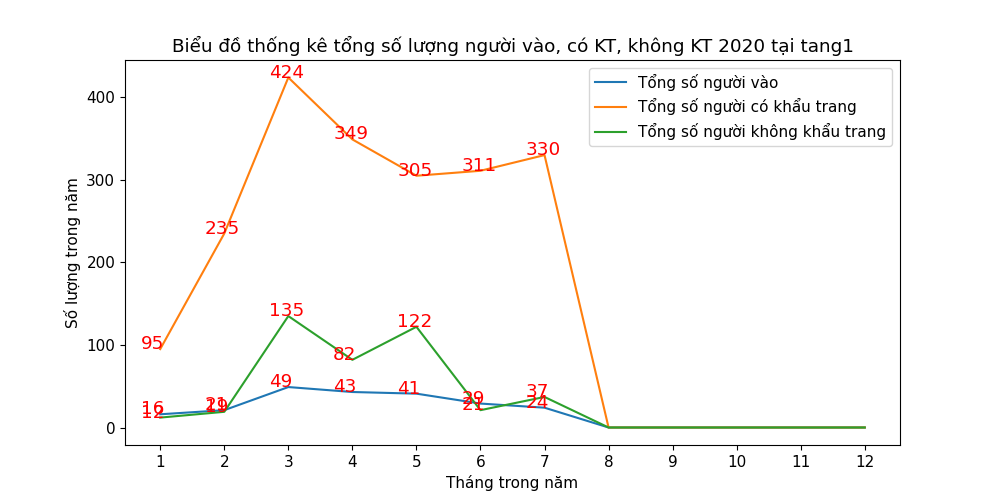
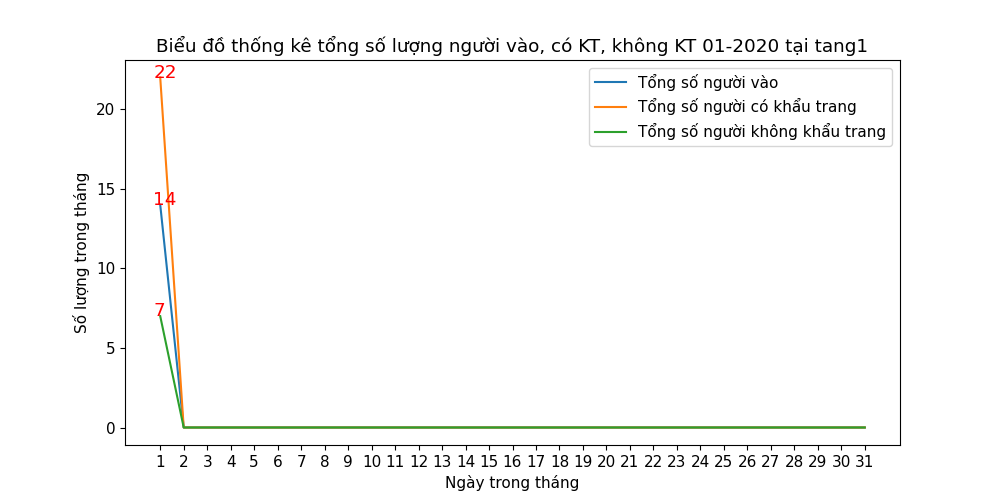
fix report problem - wrong figure

diff --git a/mask_utils/report_statistics_tab.py b/mask_utils/report_statistics_tab.py
@@ -113,9 +113,9 @@ def plot_save_export(name_of_figure,
                 for elem in return_data:
                     for i in range(len(y_in)):
                         if elem[6] - 1 == i:
-                            y_in[i] = y_in[i] + elem[2]
-                            y_mask[i] = y_mask[i] + elem[3]
-                            y_no_mask[i] = y_no_mask[i] + elem[4]
+                            y_in[i] = y_in[i] + elem[1]
+                            y_mask[i] = y_mask[i] + elem[2]
+                            y_no_mask[i] = y_no_mask[i] + elem[3]
                 plt.figure(figsize=(10, 5))
                 plt.plot(x, y_in, label="Tổng số người vào")
                 plt.plot(x, y_mask, label="Tổng số người có khẩu trang")
@@ -165,10 +165,10 @@ def plot_save_export(name_of_figure,
                 y_no_mask = [0 for i in range(1, 13, 1)]
                 for elem in return_data:
                     for i in range(len(y_in)):
-                        if elem[6] - 1 == i:
-                            y_in[i] = y_in[i] + elem[2]
-                            y_mask[i] = y_mask[i] + elem[3]
-                            y_no_mask[i] = y_no_mask[i] + elem[4]
+                        if elem[7] - 1 == i:
+                            y_in[i] = y_in[i] + elem[1]
+                            y_mask[i] = y_mask[i] + elem[2]
+                            y_no_mask[i] = y_no_mask[i] + elem[3]
                 plt.figure(figsize=(10, 5))
                 plt.plot(x, y_in, label="Tổng số người vào")
                 plt.plot(x, y_mask, label="Tổng số người có khẩu trang")

diff --git a/scaft.py b/scaft.py
@@ -815,25 +815,32 @@ import sqlite3
 #             insert_data = response.json()
 #             print(insert_data)
 
-# import sqlite3
-# # connect to sql database
-# conn = sqlite3.connect('./database/final_data_base.db')
-# c = conn.cursor()
-#
-# camera_id = 4
-#
+import sqlite3
+# connect to sql database
+conn = sqlite3.connect('./database/final_data_base.db')
+c = conn.cursor()
+
+camera_id = 4
+year_input = 2020
+
 # query_test = f"SELECT num_in, num_mask, num_no_mask, minute, hour, day, month, year FROM DATA WHERE " \
 #              f"camera_id = '{camera_id}' AND " \
 #              f"(substr(year,1,4)||substr(substr('00'||month,-2),1,2)||substr(substr('00'||day,-2),1,2)||" \
 #              f"substr(substr('00'||hour,-2),1,2)||substr(substr('00'||minute,-2),1,2)) " \
 #              f"BETWEEN '202001010502' AND '202103160835'"
-#
-# # query_test = "select substr('00'||3,-2);"
-#
-# c.execute(query_test)
-# updated_data = c.fetchall()
-# print(len(updated_data))
-# print(updated_data)
+
+query_test = f"SELECT camera_name,num_in,num_mask,num_no_mask,minute,hour,day,month,year " \
+        f"FROM DATA WHERE camera_id = '{camera_id}' and year = {year_input}"
+
+c.execute(query_test)
+updated_data = c.fetchall()
+print(len(updated_data))
+print(updated_data)
+
+print("test:", updated_data[0][0])
+
+y_in = [0 for i in range(1, 13, 1)]
+print(y_in)
 
 
 # import datetime

diff --git a/update_data_threading.py b/update_data_threading.py
@@ -48,16 +48,16 @@ def update_data_to_server(update_data_queue, forward_message, backward_message, 
 
             data = update_data_queue.get()
 
-            print("check data in queue: ", data)
+            # print("check data in queue: ", data)
 
             # sending data to Report Server
-            # response = requests.request("POST", api_path, json=data, headers=headers)
-            # insert_data = response.json()
-            #
-            # if insert_data["status"] == 200:
-            #     print("[INFO]-- Insert Data to Report Server is successful")
-            # else:
-            #     print("[INFO]-- Insert Data to Report Server has problems, check again !")
+            response = requests.request("POST", api_path, json=data, headers=headers)
+            insert_data = response.json()
+            print("[INFO]-- ", insert_data)
+            if insert_data["status"] == 200:
+                print("[INFO]-- Insert Data to Report Server is successful")
+            else:
+                print("[INFO]-- Insert Data to Report Server has problems, check again !")
 
         elif have_no_job:
             time.sleep(no_job_sleep_time)
